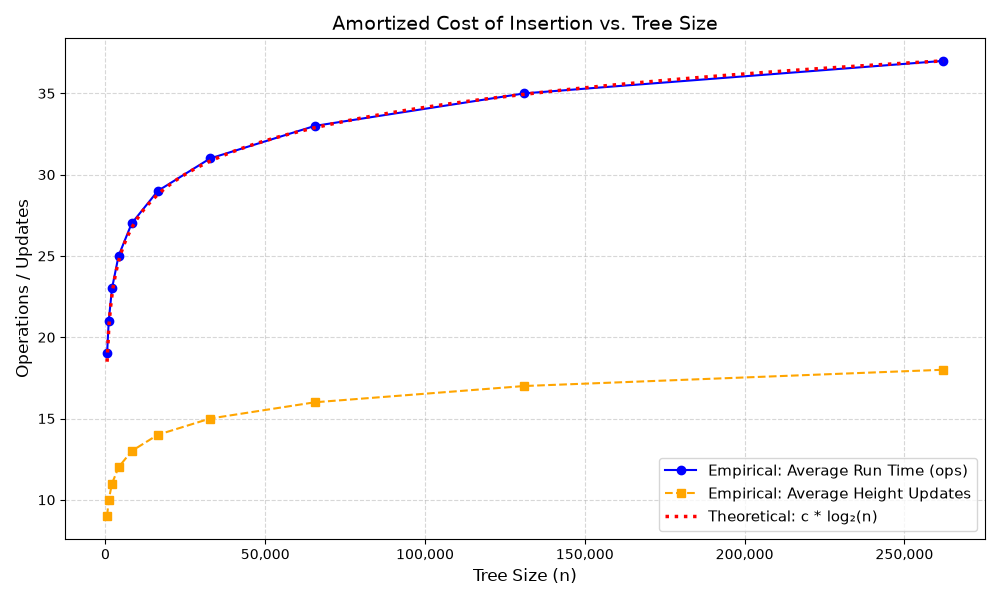
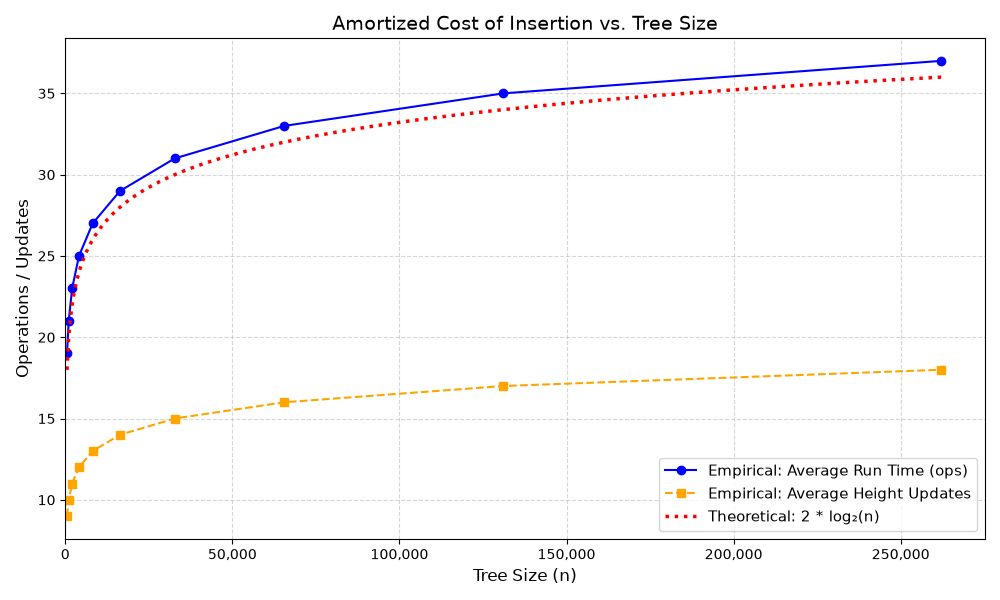
finish!

diff --git a/AVLPerfectTreePlotter.py b/AVLPerfectTreePlotter.py
@@ -48,7 +48,8 @@ class AVLPerfectTreePlotter:
             # We scale it so it visually aligns with the empirical data (using operations data)
             max_x = x_data.iloc[-1]
             max_y = y_data_ops.iloc[-1]
-            scale_factor = max_y / np.log2(max_x)
+            scale_factor = 2
+            #max_y / np.log2(max_x)
             
             # Generate smooth x values for the theoretical curve
             x_smooth = np.linspace(min(x_data), max(x_data), 500)
@@ -56,7 +57,7 @@ class AVLPerfectTreePlotter:
 
             # Plot 3: Theoretical Scaled log(n)
             plt.plot(x_smooth, y_theoretical, linestyle=':', color='red', linewidth=2.5, 
-                     label='Theoretical: c * log₂(n)')
+                     label='Theoretical: 2 * log₂(n)')
 
             # Formatting
             plt.title('Amortized Cost of Insertion vs. Tree Size', fontsize=14)
@@ -66,6 +67,9 @@ class AVLPerfectTreePlotter:
             # Use linear scale to clearly see the logarithmic curve shape
             plt.xscale('linear')
             plt.yscale('linear')
+            
+            # Force X-axis to start at 0 so the first data point isn't glued to the Y-axis
+            plt.xlim(left=0)
             
             plt.grid(True, which="both", ls="--", alpha=0.5)
 
